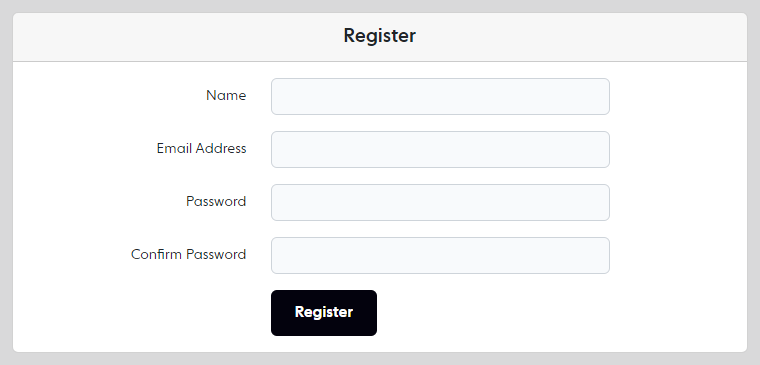
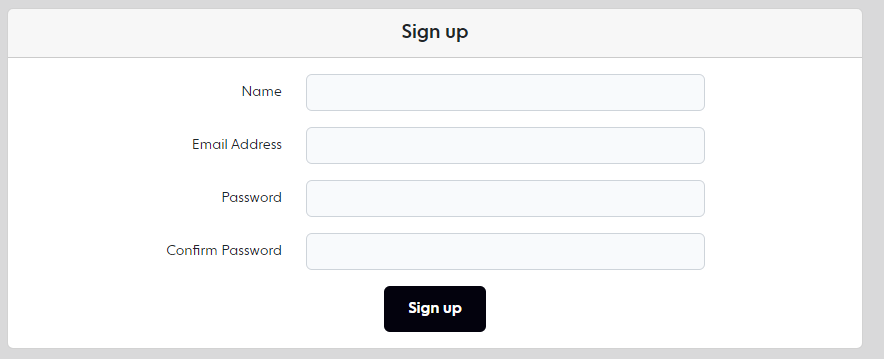
Change register button

diff --git a/public/css/app.css b/public/css/app.css
@@ -11035,4 +11035,8 @@ nav {
 .messageInput{
     margin-top: 0.5rem;
 }
+.register-btn {
+    display: flex;
+    justify-content: center;
+}
 

diff --git a/resources/css/app.css b/resources/css/app.css
@@ -200,3 +200,7 @@ nav {
 .messageInput{
     margin-top: 0.5rem;
 }
+.register-btn {
+    display: flex;
+    justify-content: center;
+}

diff --git a/resources/views/auth/register.blade.php b/resources/views/auth/register.blade.php
@@ -5,7 +5,7 @@
     <div class="row justify-content-center">
         <div class="col-md-8">
             <div class="card">
-                <div class="card-header">{{ __('Register') }}</div>
+                <div class="card-header">{{ __('Sign up') }}</div>
 
                 <div class="card-body">
                     <form method="POST" action="{{ route('register') }}">
@@ -62,9 +62,9 @@
                         </div>
 
                         <div class="row mb-0">
-                            <div class="col-md-6 offset-md-4">
+                            <div class="register-btn">
                                 <button type="submit" class="btn btn-primary">
-                                    {{ __('Register') }}
+                                    {{ __('Sign up') }}
                                 </button>
                             </div>
                         </div>
